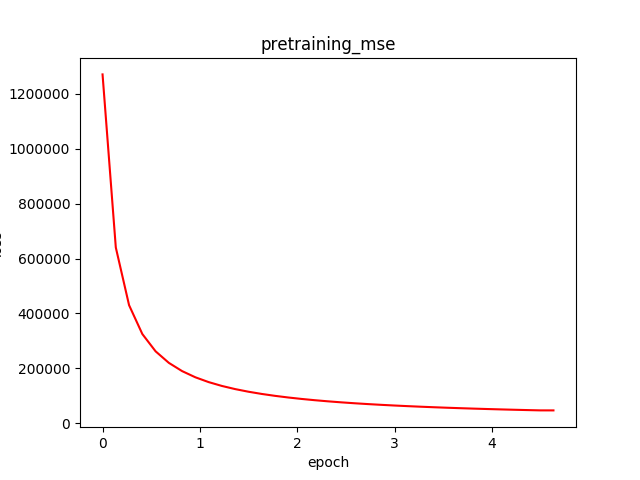
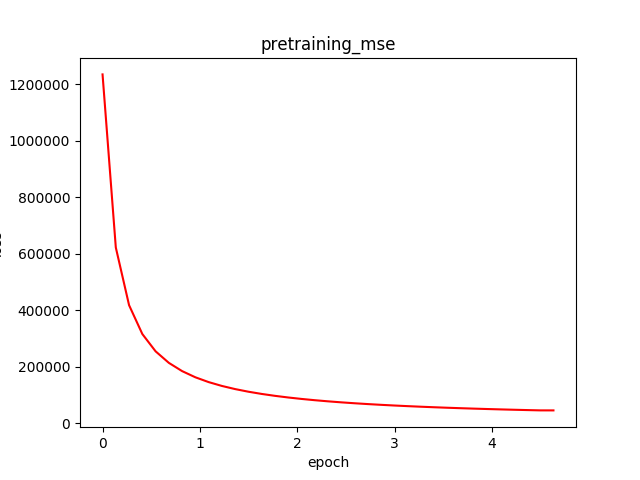
exahead training upload

diff --git a/python/FFNN_MODEL_001/config--beatAML_data.py b/python/FFNN_MODEL_001/config--beatAML_data.py
@@ -9,7 +9,7 @@ THIS IS THE BEATAML ONLY CONFIG FILE
 ###############################################################################
 
 params = {
-'NAME' : 'BEATAML-DATA-005',
+'NAME' : 'BEATAML-DATA-006',
 
 # -----------------------------------------------------------------------------
 # -----------------------------------------------------------------------------
@@ -26,28 +26,28 @@ params = {
 'N_BEATAML_PATIENTS_EXCLUSIVE_TO_TEST' : 30  ,          # remove patients for test
 # -----------------------------------------------------------------------------
 # -----------------------------------------------------------------------------
-'SAVE_MODEL_EVERY' : 2, # epochs
-'PRINT_MID_EPOCH_INFO' : True,
+'SAVE_MODEL_EVERY' : 10, # epochs
+'PRINT_MID_EPOCH_INFO' : False,
 # -----------------------------------------------------------------------------
 # -----------------------------------------------------------------------------
     ## `i` indicates the order of classification layers
 'RESP_TYPES' : {x:i for i,x in enumerate(['beatAML_AUC'])},
 
-'H1' : 1000,
-'H2' : 1000,
-'H3' : 1000,                # Layer 3 - Dataset Shared
+'H1' : 2000,
+'H2' : 2000,
+'H3' : 500,                # Layer 3 - Dataset Shared
 'DH' : 100,                # Dataset Specific Layer
 
 'DO' : 0.5,                # Dropout
 'NCONVS' : 10,
 'PRINT_EVERY' : 1,
 'NGENES' : 523, #/ 523
-'EPOCHS' : 5,
+'EPOCHS' : 200,
 'LEARNING_WEIGHT' : 1e-1,
 'WEIGHT_DECAY' : 0.1,
 'LR_DECAY_PATIENCE' : 75,       # batches (not epochs)
 
-'PRETRAIN_EPOCHS' : 1,
+'PRETRAIN_EPOCHS' : 5,
 'PRETRAIN_LR' : 1e-2,
 'PRETRAIN_WD' : 0.2,
 'PRETRAIN_DO' : 0.9,
